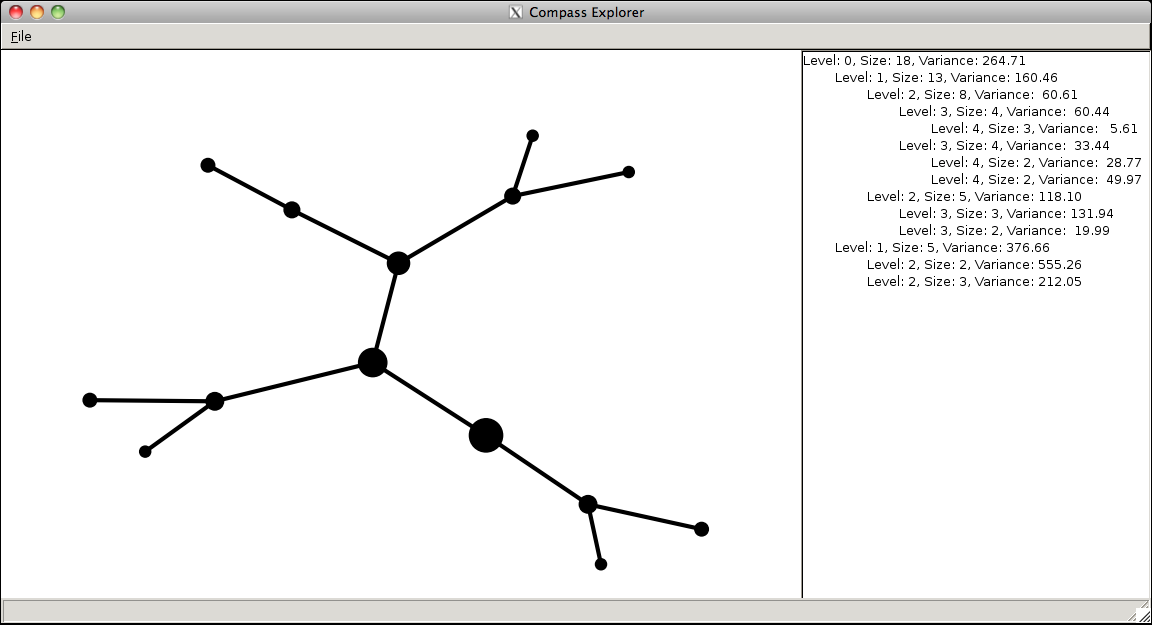
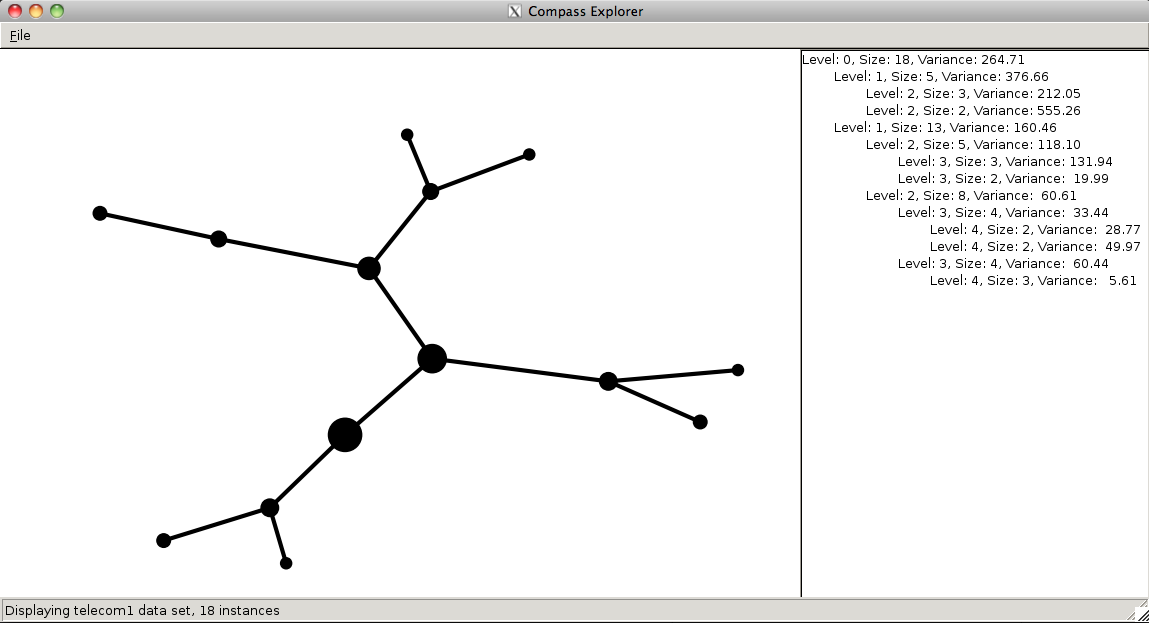
Updating concept screen shot.

diff --git a/src/python/compass-explorer.py b/src/python/compass-explorer.py
@@ -109,10 +109,10 @@ class MainFrame(wx.Frame):
         myarff=arff.Arff("/Users/abutcher/compass/src/python/arff/telecom1.arff")
         compasstree=compass.CompassTree(myarff.data)
         compasstree.DrawNx("telecom1-nx", compasstree.root)
-        self.SetStatusText('West Virginia University')
         self.BuildTreeImage("/Users/abutcher/compass/src/python/telecom1-nx.png")
         self.BuildTextBox(compasstree.root)
         self.CreateStatusBar()
+        self.SetStatusText('Displaying telecom1 data set, 18 instances')
         self.MyMenu()
 
     def OpenFile(self, event):

diff --git a/src/python/compass.py b/src/python/compass.py
@@ -48,7 +48,7 @@ class CompassTree:
         self.ConstructNodeSizes(G)
         self.ConstructNodeLabels(G)
         # Cool blue #AOCBE2
-        nx.draw(G, node_color='#000000', node_size=self.node_sizes, width=3, with_labels=False)# labels=self.node_labels, font_size=10)
+        nx.draw(G, node_color='#000000', node_size=self.node_sizes, width=3, with_labels=False) #labels=self.node_labels, font_size=10)
         plt.title(pngname)
         plt.savefig("%s.png" % pngname)
 
